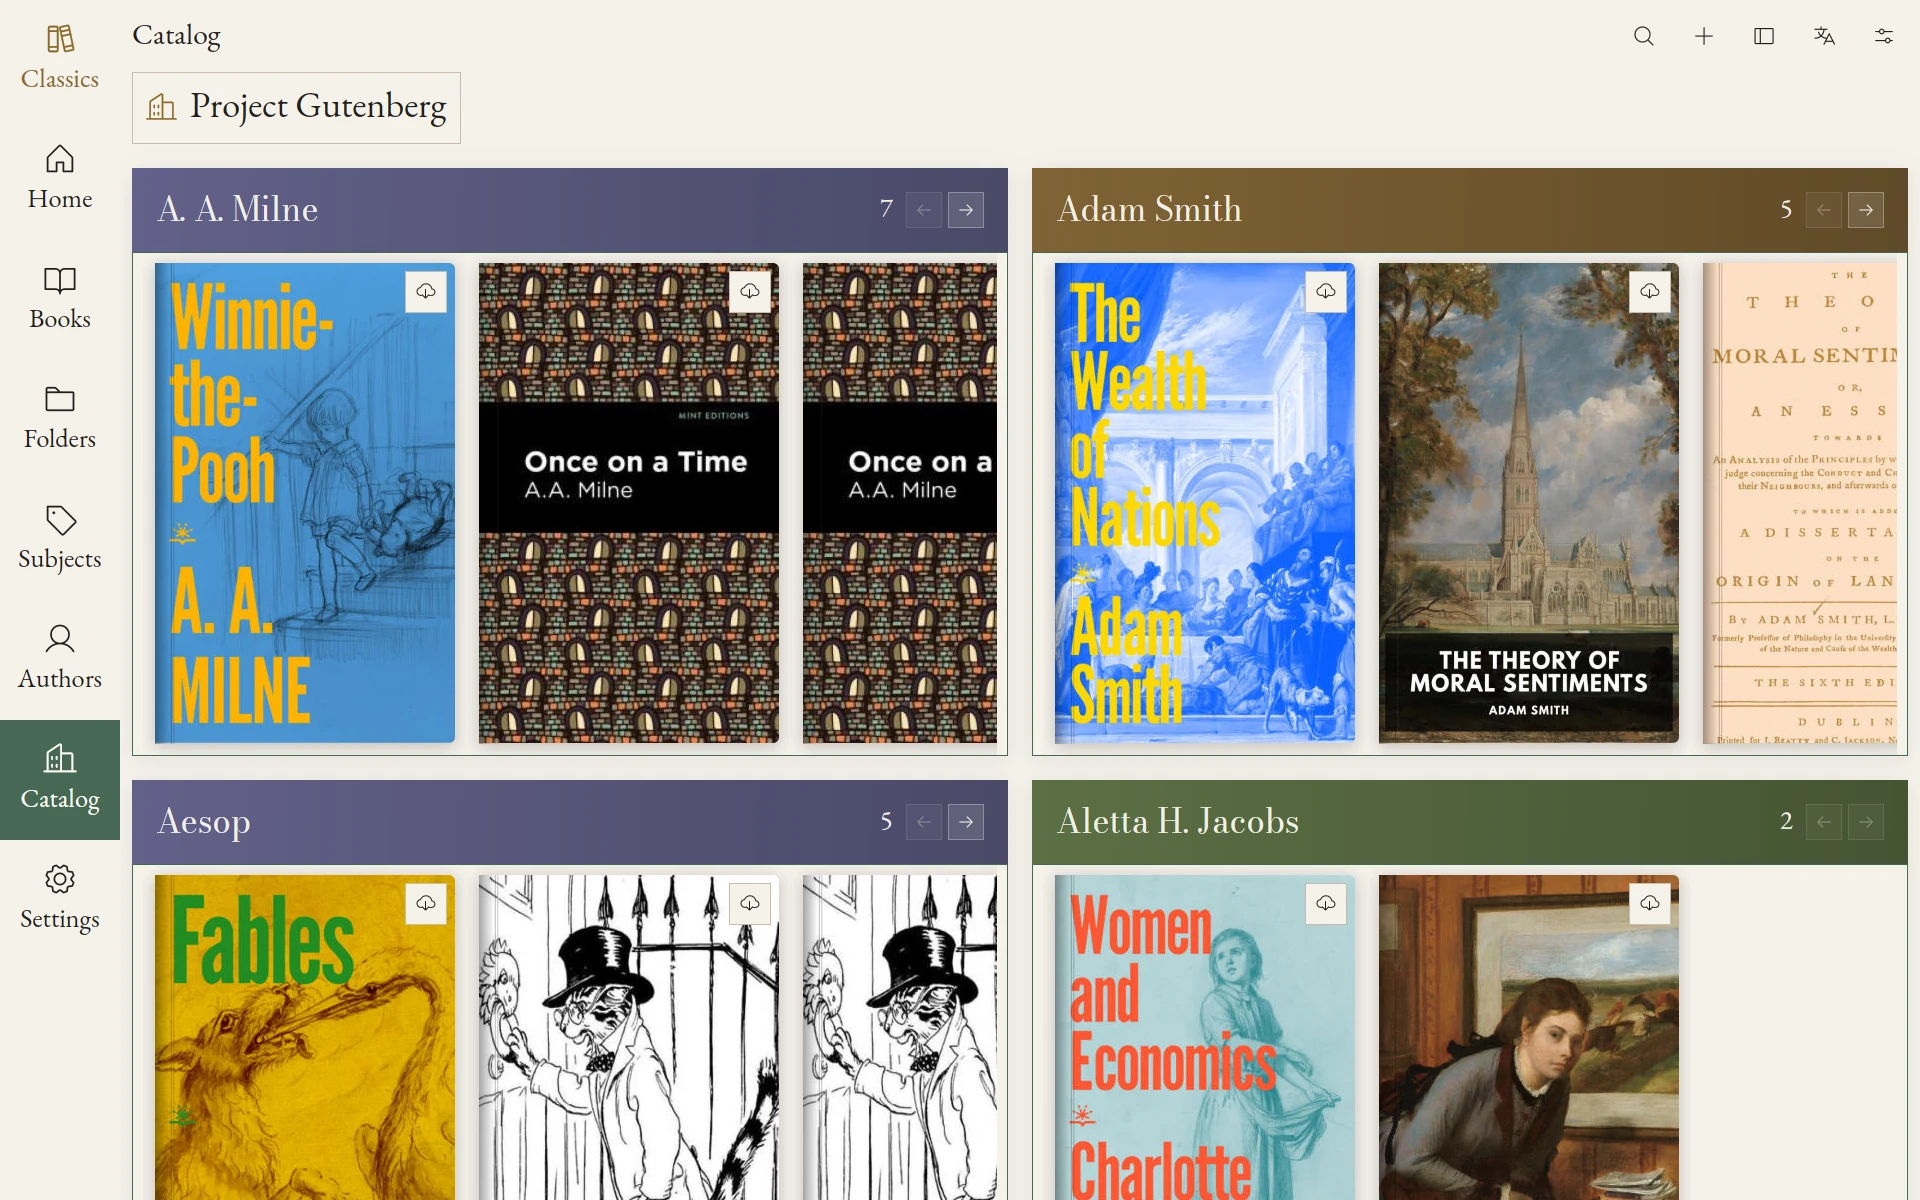
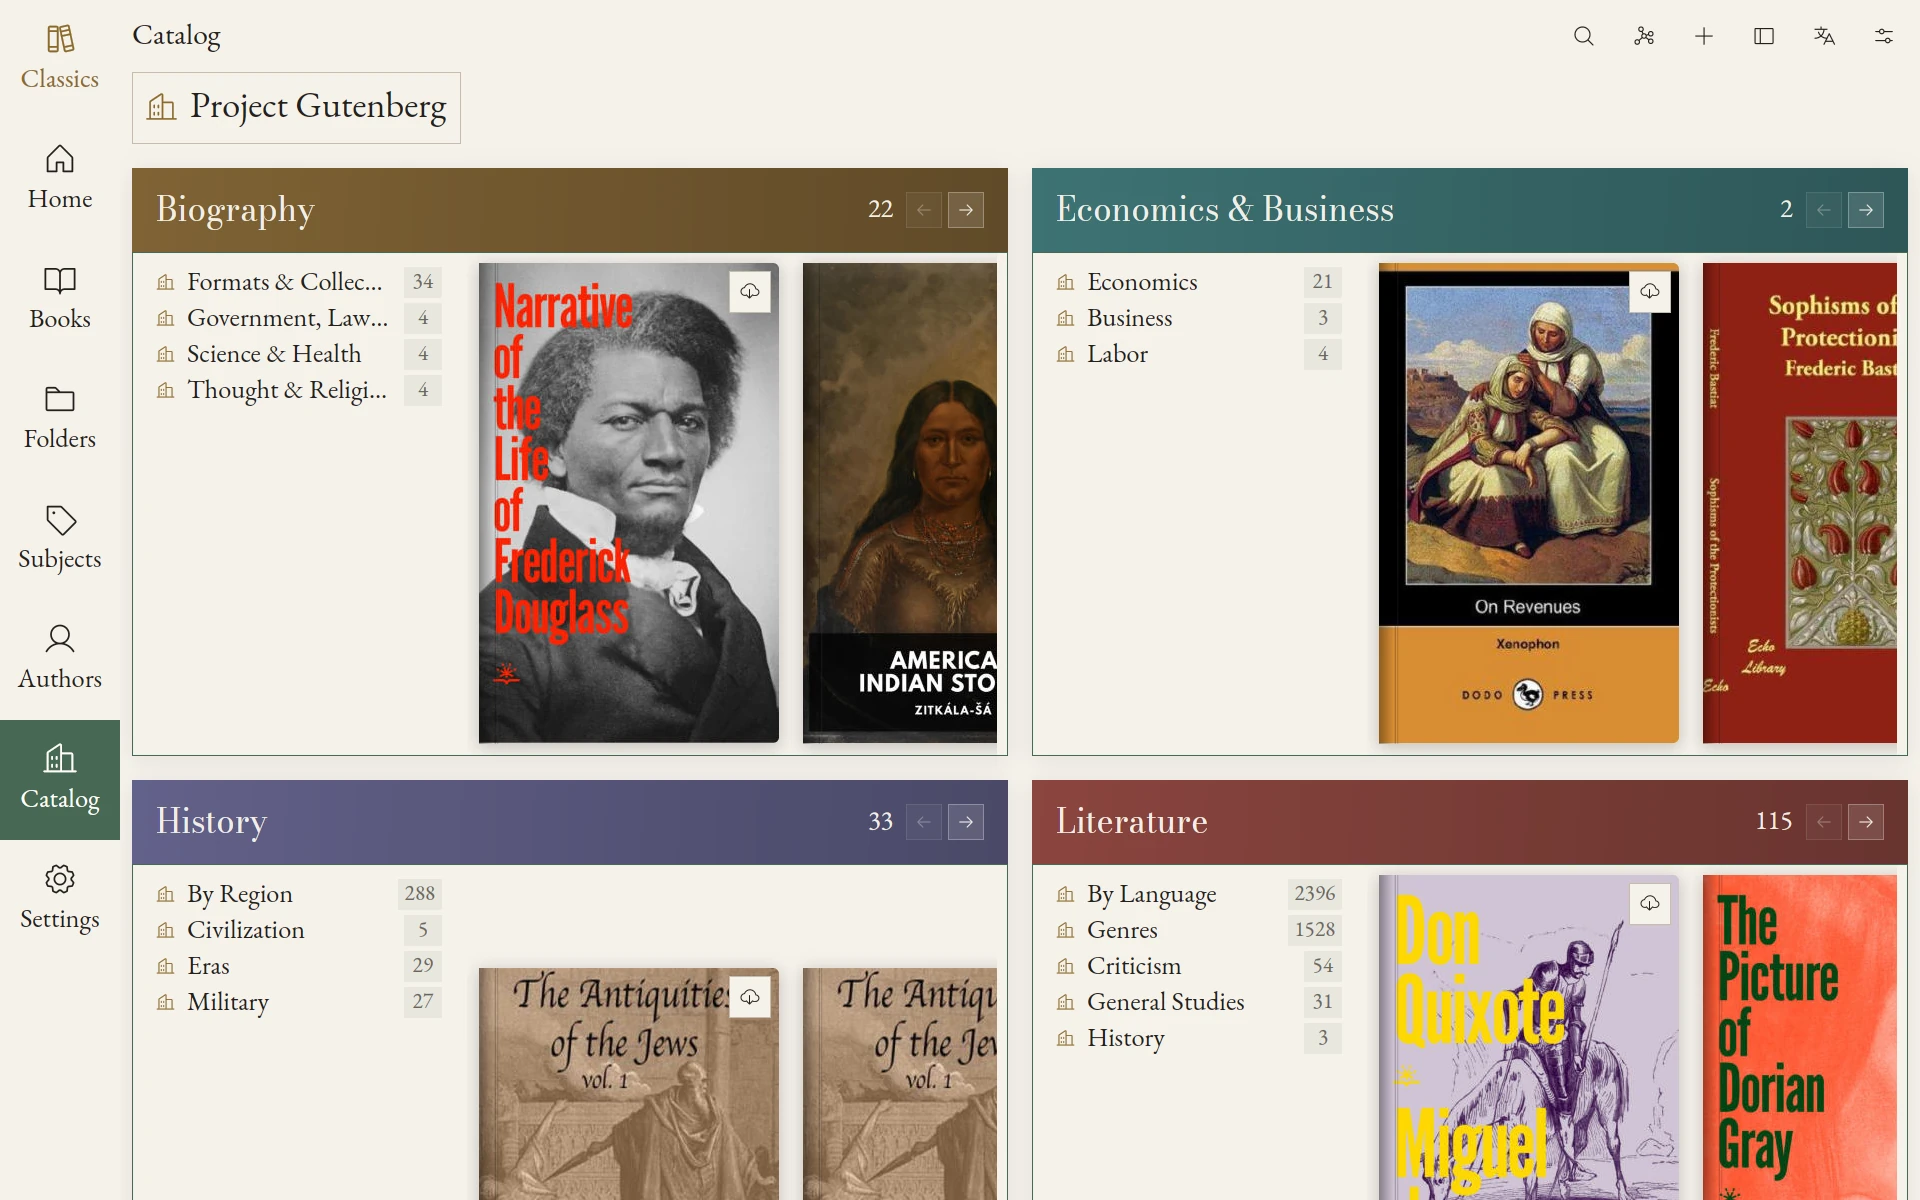
Use subject navigation in catalog screenshot

diff --git a/index.html b/index.html
@@ -734,7 +734,7 @@
       <p class="shots-copy">Search and browse classics from the public domain.</p>
 
       <figure class="shot">
-        <img src="/screenshots/store.webp" width="1920" height="1200" loading="lazy" decoding="async" alt="Bokheim's desktop catalog root showing Project Gutenberg books grouped by author.">
+        <img src="/screenshots/store.webp" width="1920" height="1200" loading="lazy" decoding="async" alt="Bokheim's desktop catalog root with subject navigation for Project Gutenberg books.">
       </figure>
 
       <h2>Read without distractions</h2>
